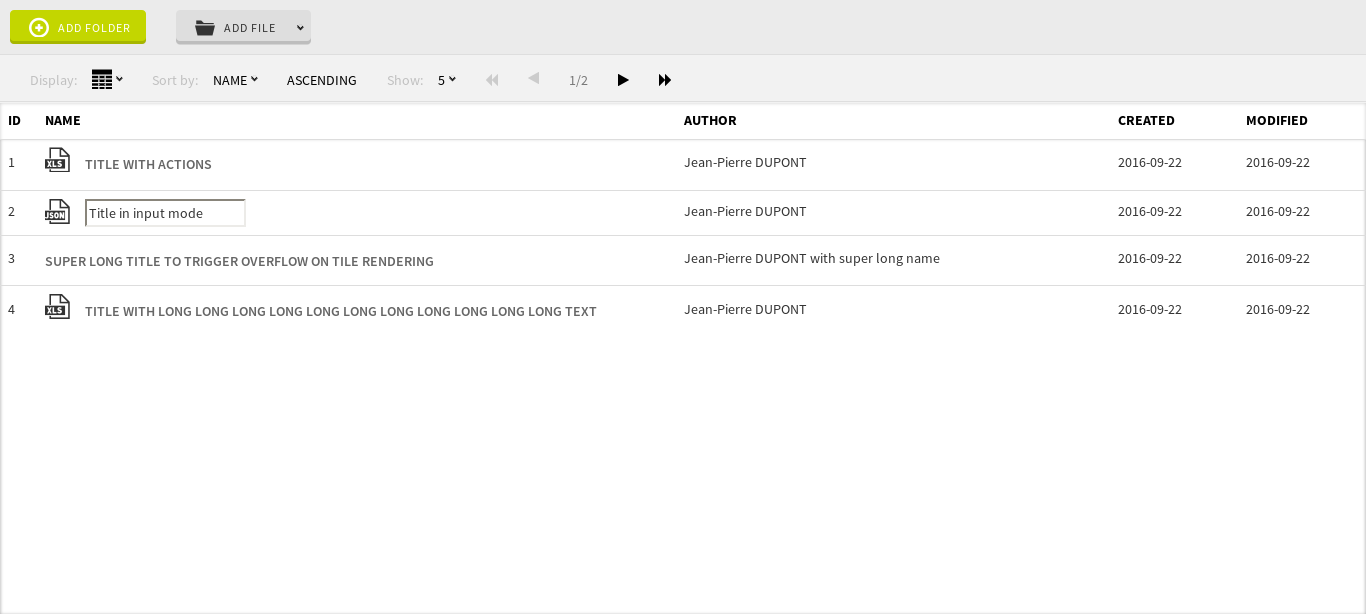
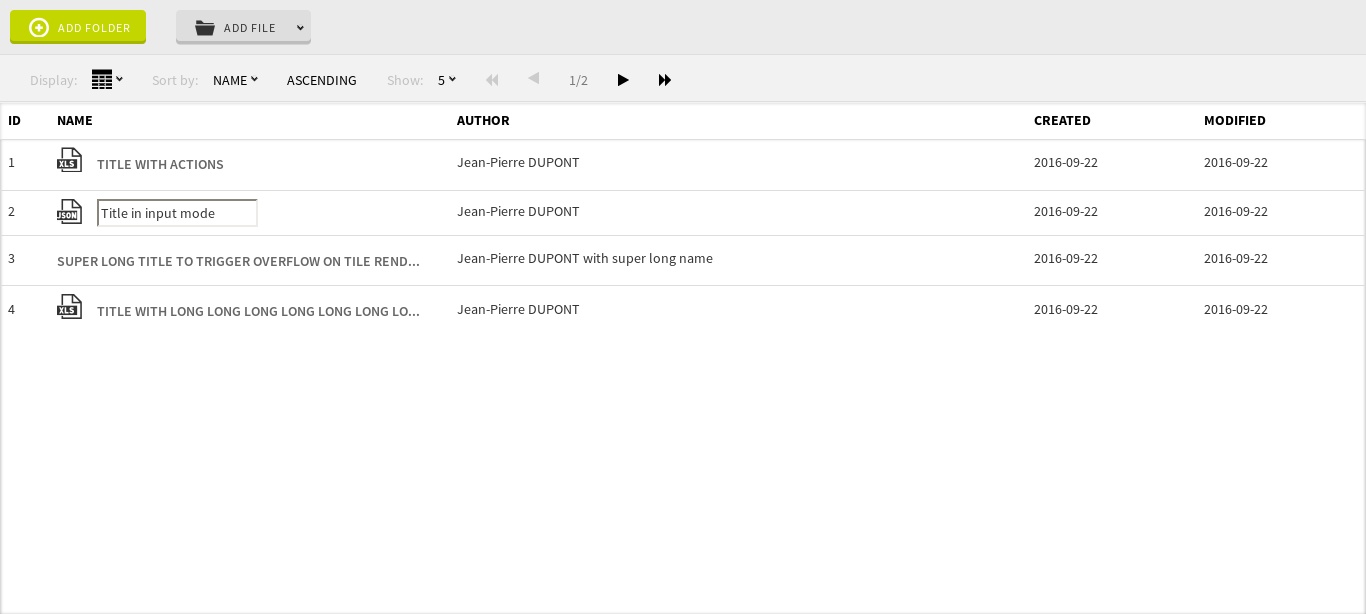
fix(components): list with table cell behavior more precise (#111)
Just actions next to item title vanish.

diff --git a/packages/components/src/List/DisplayTable/DisplayTable.scss b/packages/components/src/List/DisplayTable/DisplayTable.scss
@@ -84,7 +84,7 @@ $tc-list-table-header-height: 36px !default;
 
 			.tc-list-display-table-td {
 
-				.actions {
+				.cell + .actions {
 					width: auto;
 				}
 			}
@@ -97,12 +97,12 @@ $tc-list-table-header-height: 36px !default;
 				flex-shrink: 1;
 				flex-grow: 1;
 				min-width: 0;
-			}
 
-			.actions {
-				flex-shrink: 0;
-				flex-grow: 0;
-				width: 0;
+				+ .actions {
+					flex-shrink: 0;
+					flex-grow: 0;
+					width: 0;
+				}
 			}
 		}
 

diff --git a/packages/components/.storybook/head.html b/packages/components/.storybook/head.html
@@ -13,7 +13,8 @@
         background: #ff69b4;
     }
 
-    .tc-list-display-table tr > td + td {
+    .tc-list-display-table tr > td:first-child + td {
+        width: 400px;
         max-width: 400px;
     }
 
